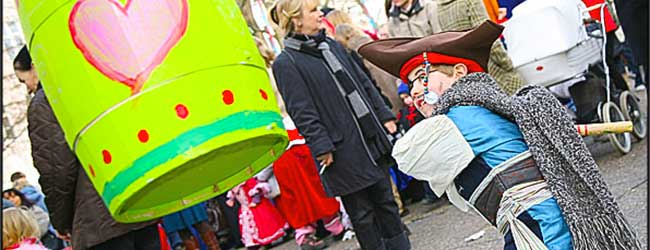
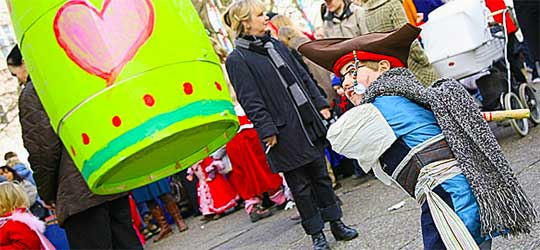
Updated sliderimage and added links to index.php

diff --git a/header.html b/header.html
@@ -5,11 +5,11 @@
     
     <div id="globalmenu">
     	<ul>
-        	<li class="liwidth">Nyheder</li>
-            <li class="liwidth">Info</li>
-            <li class="liwidth">Program</li>
-            <li class="liwidth">Q&amp;A</li>
-            <li class="liwidth">Kontakt</li>
+        	<a href="index.php"><li class="liwidth">Nyheder</li></a>
+            <a href="info.php"><li class="liwidth">Info</li></a>
+            <a href="program.php"><li class="liwidth">Program</li></a>
+            <a href="spoergsmaal.php"><li class="liwidth">Q&amp;A</li></a>
+            <a href="kontakt.php"><li class="liwidth">Kontakt</li></a>
         </ul>
     </div><!--globalmenu-->
 </div><!--maskheader-->

diff --git a/skins/plain/quake.skin.css b/skins/plain/quake.skin.css
@@ -77,7 +77,7 @@
     color: white;
     font-weight: bold;
     font-size: 18px;
-    font-family: font-family: 'Old Standard TT', serif;
+    font-family: Georgia, serif;
     padding: 10px;
      line-height:1.5em;
     word-spacing:.2em;

diff --git a/lady.html b/lady.html
@@ -1,0 +1,2 @@
+<div id="dancinglady">
+</div><!--dancinglady-->

diff --git a/index.php b/index.php
@@ -17,6 +17,7 @@
             $('.quake-slider').quake({ effects: ['linearPealReverse', 'slideIn', 'explodeFancy'],
                 thumbnails: true,
                 captionOpacity: '0.3',
+				pauseTime: 10000,
 				 captionsSetup: [
                                 {
                                     "orientation": "right",
@@ -26,9 +27,13 @@
                                ]
 				
             });
-	function captionAnimateCallback(captionWrapper, captionContainer, orientation) {
-               captionWrapper.css({ left: '-990px' }).stop(true, true).animate({ left: 0 }, 800);
-               captionContainer.css({ left: '-990px' }).stop(true, true).animate({ left: 0 }, 800);
+			function captionAnimateCallback(captionWrapper, captionContainer, orientation) {
+               captionWrapper.css({ left: '-990px' }).stop(true, true).animate({ left: 0 }, 500);
+               captionContainer.css({ left: '-990px' }).stop(true, true).animate({ left: 0 }, 500);
+           }
+		   	function captionAnimationCallback1(captionWrapper, captionContainer, orientation) {
+               captionWrapper.css({ top: '-330px' }).stop(true, true).animate({ top: 0 }, 500);
+               captionContainer.css({ top: '-330px' }).stop(true, true).animate({ top: 0 }, 500);
            }
         });
     	</script>
@@ -40,8 +45,9 @@
 		include 'header.html';
 	?> 
     
-        <div id="dancinglady">
-	</div><!--dancinglady-->
+    <?php
+		include 'lady.html'
+	?>
     <div id="master">
 		<div id="featherdiv">    	
             <div class="quake-slider">

diff --git a/info.php b/info.php
@@ -1,0 +1,16 @@
+<!DOCTYPE html PUBLIC "-//W3C//DTD XHTML 1.0 Transitional//EN" "http://www.w3.org/TR/xhtml1/DTD/xhtml1-transitional.dtd">
+<html xmlns="http://www.w3.org/1999/xhtml">
+<head>
+<meta http-equiv="Content-Type" content="text/html; charset=utf-8" />
+<title>Information om Tivolis karneval</title>
+<link rel="stylesheet" href="cssreset.css" type="text/css" />
+<link rel="stylesheet" href="stylesheet.css" type="text/css" />
+<link href='http://fonts.googleapis.com/css?family=Old+Standard+TT' rel='stylesheet' type='text/css'>
+</head>
+
+<body>
+<?php
+include 'header.html'
+?>
+</body>
+</html>

diff --git a/kontakt.php b/kontakt.php
@@ -1,0 +1,16 @@
+<!DOCTYPE html PUBLIC "-//W3C//DTD XHTML 1.0 Transitional//EN" "http://www.w3.org/TR/xhtml1/DTD/xhtml1-transitional.dtd">
+<html xmlns="http://www.w3.org/1999/xhtml">
+<head>
+<meta http-equiv="Content-Type" content="text/html; charset=utf-8" />
+<title>Information om Tivolis karneval</title>
+<link rel="stylesheet" href="cssreset.css" type="text/css" />
+<link rel="stylesheet" href="stylesheet.css" type="text/css" />
+<link href='http://fonts.googleapis.com/css?family=Old+Standard+TT' rel='stylesheet' type='text/css'>
+</head>
+
+<body>
+<?php
+include 'header.html'
+?>
+</body>
+</html>

diff --git a/program.php b/program.php
@@ -1,0 +1,16 @@
+<!DOCTYPE html PUBLIC "-//W3C//DTD XHTML 1.0 Transitional//EN" "http://www.w3.org/TR/xhtml1/DTD/xhtml1-transitional.dtd">
+<html xmlns="http://www.w3.org/1999/xhtml">
+<head>
+<meta http-equiv="Content-Type" content="text/html; charset=utf-8" />
+<title>Information om Tivolis karneval</title>
+<link rel="stylesheet" href="cssreset.css" type="text/css" />
+<link rel="stylesheet" href="stylesheet.css" type="text/css" />
+<link href='http://fonts.googleapis.com/css?family=Old+Standard+TT' rel='stylesheet' type='text/css'>
+</head>
+
+<body>
+<?php
+include 'header.html'
+?>
+</body>
+</html>

diff --git a/spoergsmaal.php b/spoergsmaal.php
@@ -1,0 +1,16 @@
+<!DOCTYPE html PUBLIC "-//W3C//DTD XHTML 1.0 Transitional//EN" "http://www.w3.org/TR/xhtml1/DTD/xhtml1-transitional.dtd">
+<html xmlns="http://www.w3.org/1999/xhtml">
+<head>
+<meta http-equiv="Content-Type" content="text/html; charset=utf-8" />
+<title>Information om Tivolis karneval</title>
+<link rel="stylesheet" href="cssreset.css" type="text/css" />
+<link rel="stylesheet" href="stylesheet.css" type="text/css" />
+<link href='http://fonts.googleapis.com/css?family=Old+Standard+TT' rel='stylesheet' type='text/css'>
+</head>
+
+<body>
+<?php
+include 'header.html'
+?>
+</body>
+</html>
